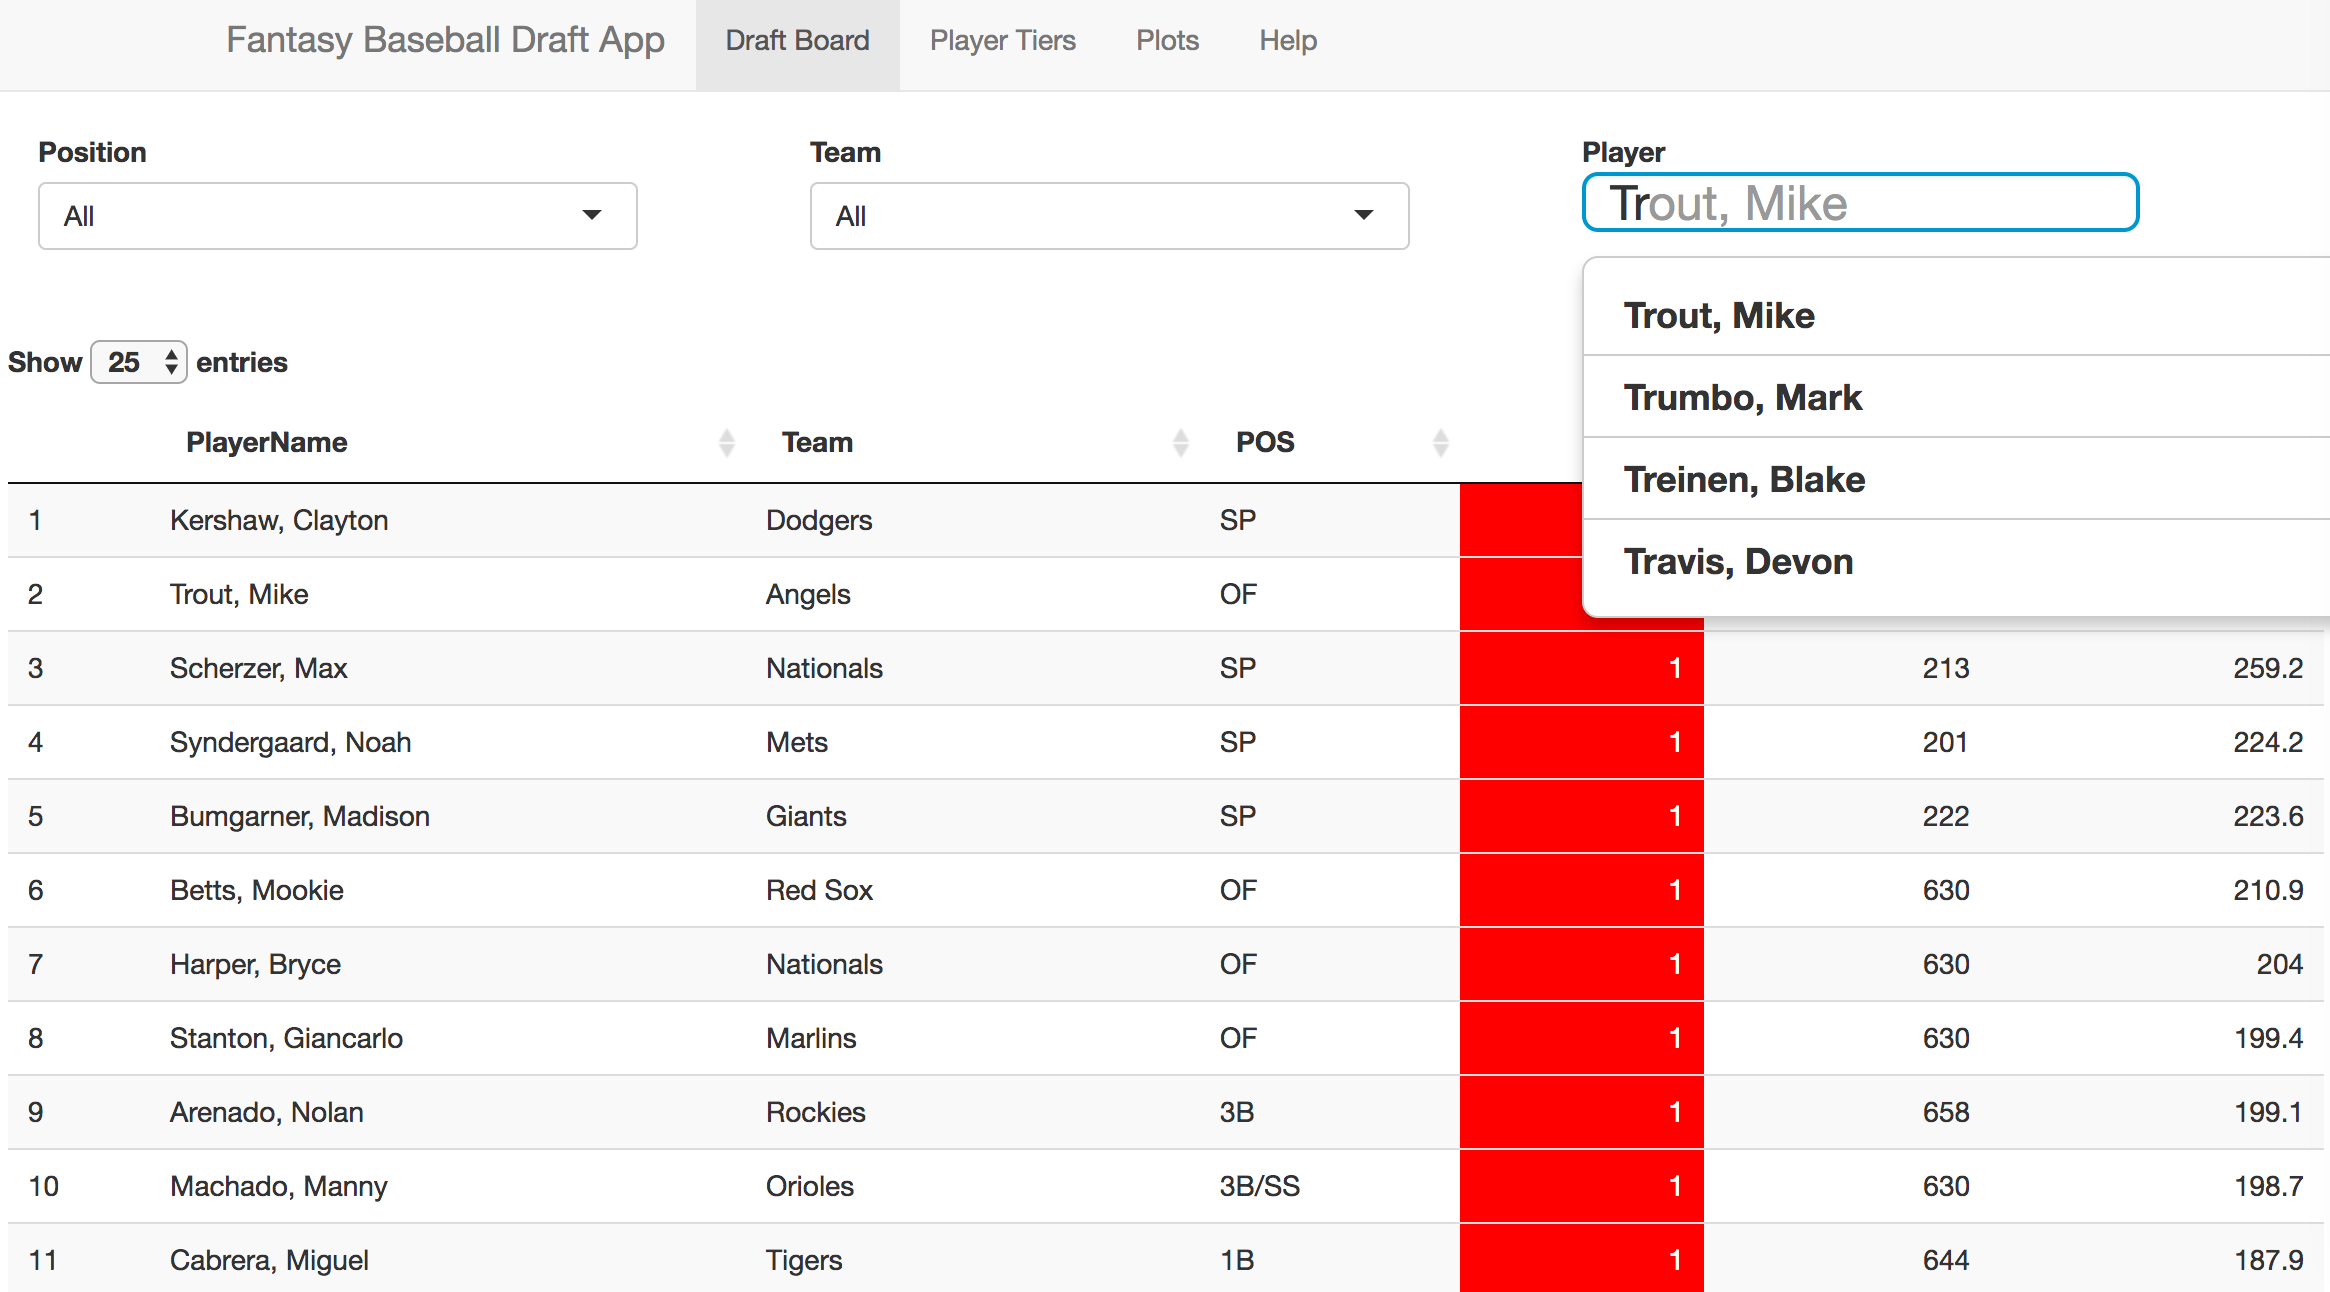
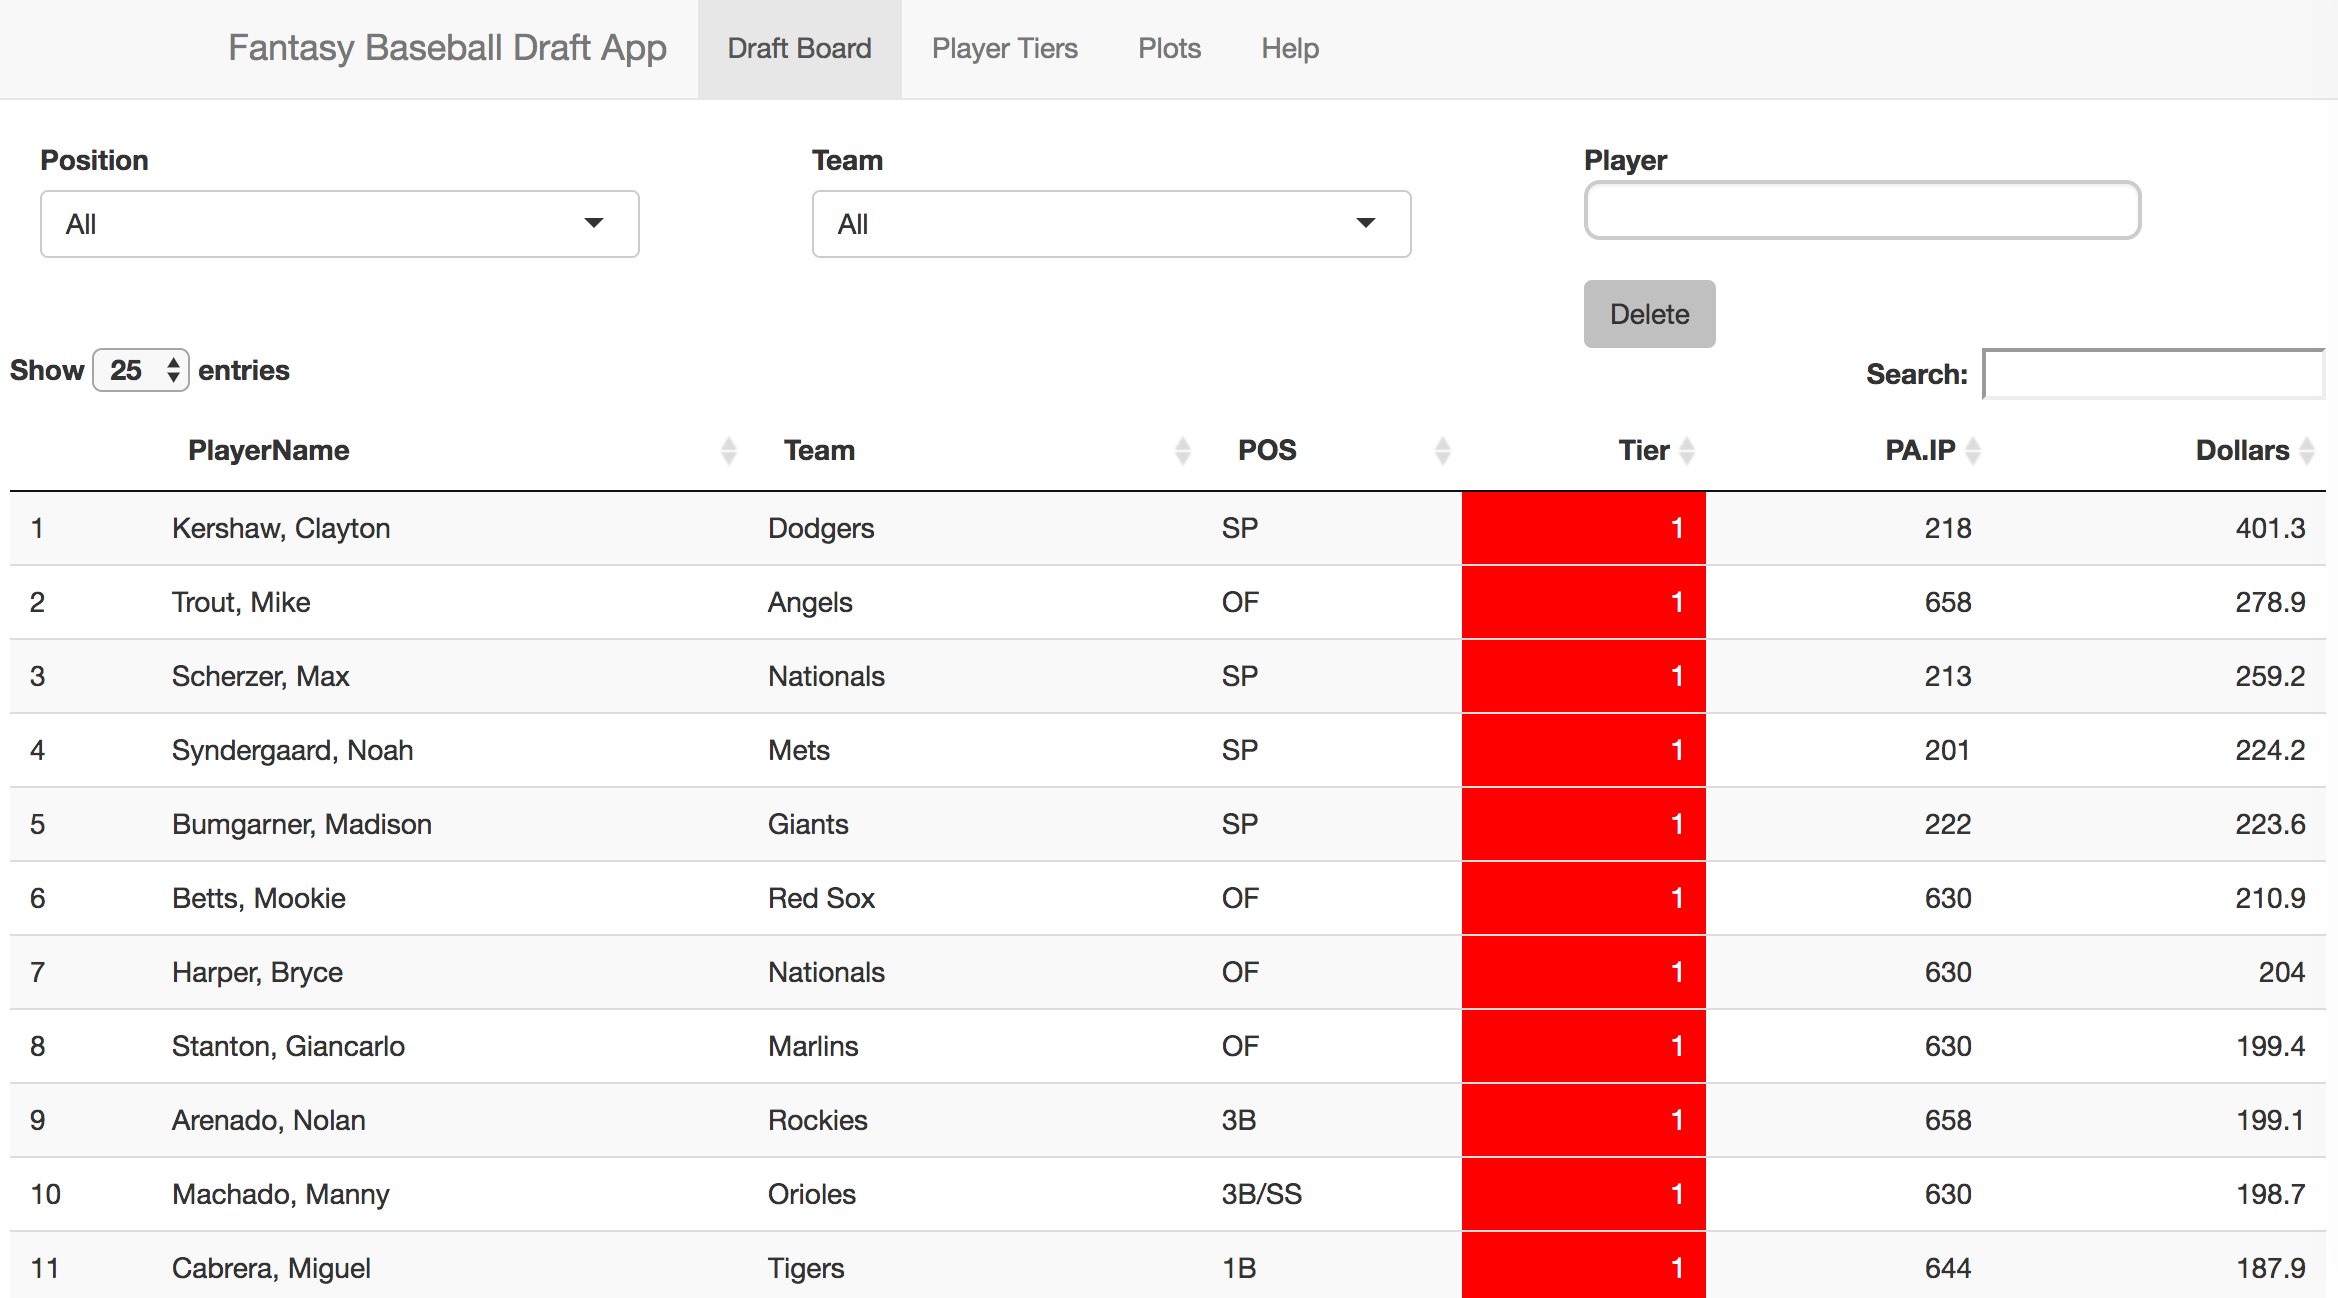
Revised documentation

diff --git a/README.md b/README.md
@@ -3,7 +3,7 @@ redbird, a Fantasy Baseball Draft App in Shiny
 
 #### Background
 
-For the last couple of years, I have been in a fantasy baseball league with around 18 teams with head-to-head match-ups. The large number of teams results in an unusual roster set-up, making typical rankings on sites like Yahoo less useful. The draft is also very fast paced as to accomodate all of the teams.
+For the last couple of years, I have been in a fantasy baseball league with around 18 teams with head-to-head match-ups. The large number of teams results in an unusual roster set-up, making typical rankings on sites like Yahoo less useful. The draft is also very fast paced as to accommodate all of the teams.
 
 I needed a draft cheat sheet that reflected the unusual structure of the league and could be updated as players were drafted. The result is this application in Shiny, my first.
 
@@ -13,23 +13,11 @@ I needed a draft cheat sheet that reflected the unusual structure of the league 
 
 -   The code can be found on [github](https://github.com/alanrkessler/redbird)
 
-#### Limitations
-
-The app uses input from [Fangraphs](http://www.fangraphs.com), so any limitations in their methodology would also apply here. That methodology accounts for the relative value of different positions and each players contribution to the fantasy team's tracked stats.
-
-What the method lacks are real time adjustments to player value to reflect the players remianing on the board and how a given player will contribute the fantasy team based on the players already selected by that team.
-
-For example, you have drafted almost all of your starting pitchers. You have one pitcher spot left open and you don't have a second baseman yet. While the draft sheet could indicate that another pitcher is better than the next available second baseman, another pitcher and a replacment level second baseman may not improve your team as much the best available second baseman and a lesser pitcher. This problem exists because the draft sheet doesn't know the context of the team as a whole.
-
-Here is another example. Say you have drafted a team so far that is not going to steal many bases. For the next player you draft, should you select someone that can steal bases to boost that stat or give up on steals knowing that one player will not win you many match-ups? You could argue that giving up the stat could allow you to strenghten other stats. Again, the draft sheet does not know which players you have on your team and will not help in this determination.
-
-In these cases, you need to use your judgment.
-
 #### Importing Data
 
 -   Data is from the [Fangraphs Auction Calculator](http://www.fangraphs.com/auctiontool.aspx).
 
--   Pitchers and Batters data is downloaded as `.CSV`s and saved in the `data` folder.
+-   Pitchers and Batters data is downloaded as `.CSV`s and saved in the `data` directory.
 
 #### Draft Board
 
@@ -37,19 +25,15 @@ In these cases, you need to use your judgment.
 
 -   The drop-down menu filters the table to show players eligible for that position and/or team.
 
--   As players are drafted, type each player's name into the text box and press delete.
-
--   Refresh the application to reset the table.
+-   As players are drafted, type each player's name into the text box and press delete to remove that player from the list. Names make use of auto-complete shown in the image below.
 
 <img src="sheet.png" width="800px" />
 
+<img src="autocomplete.png" width="200px" />
+
 #### Player Tiers
 
--   The first table shows the number of players by tier and position for available players.
-
--   The second table shows the number of players by tier and position for all players in the draft regardless of availability.
-
--   Players are double counted if they are eligible for more than one position.
+-   This tab contains two tables showing the number of players available in each tier 1-5 where 1 is the best. Players are double counted if they are eligible for more than one position.
 
 -   Tiers are set up based on the following rules:
     -   Tier 5 are players with fewer PA/IP than a set threshold for each position.
@@ -67,3 +51,15 @@ In these cases, you need to use your judgment.
 -   The slider below the plot adjusts the x-axis.
 
 <img src="plot.png" width="800px" />
+
+#### Limitations
+
+The app uses input from [Fangraphs](http://www.fangraphs.com), so any limitations in their methodology would also apply here. That methodology accounts for the relative value of different positions and each players contribution to the fantasy team's tracked stats.
+
+What the method lacks are real time adjustments to player value to reflect the players remaining on the board and how a given player will contribute the fantasy team based on the players already selected by that team.
+
+For example, you have drafted almost all of your starting pitchers. You have one pitcher spot left open and you don't have a second baseman yet. While the draft sheet could indicate that another pitcher is better than the next available second baseman, another pitcher and a replacement level second baseman may not improve your team as much the best available second baseman and a lesser pitcher. This problem exists because the draft sheet doesn't know the context of the team as a whole.
+
+Here is another example. Say you have drafted a team so far that is not going to steal many bases. For the next player you draft, should you select someone that can steal bases to boost that stat or give up on steals knowing that one player will not win you many match-ups? You could argue that giving up the stat could allow you to strengthen other stats. Again, the draft sheet does not know which players you have on your team and will not help in this determination.
+
+In these cases, you need to use your judgment.
